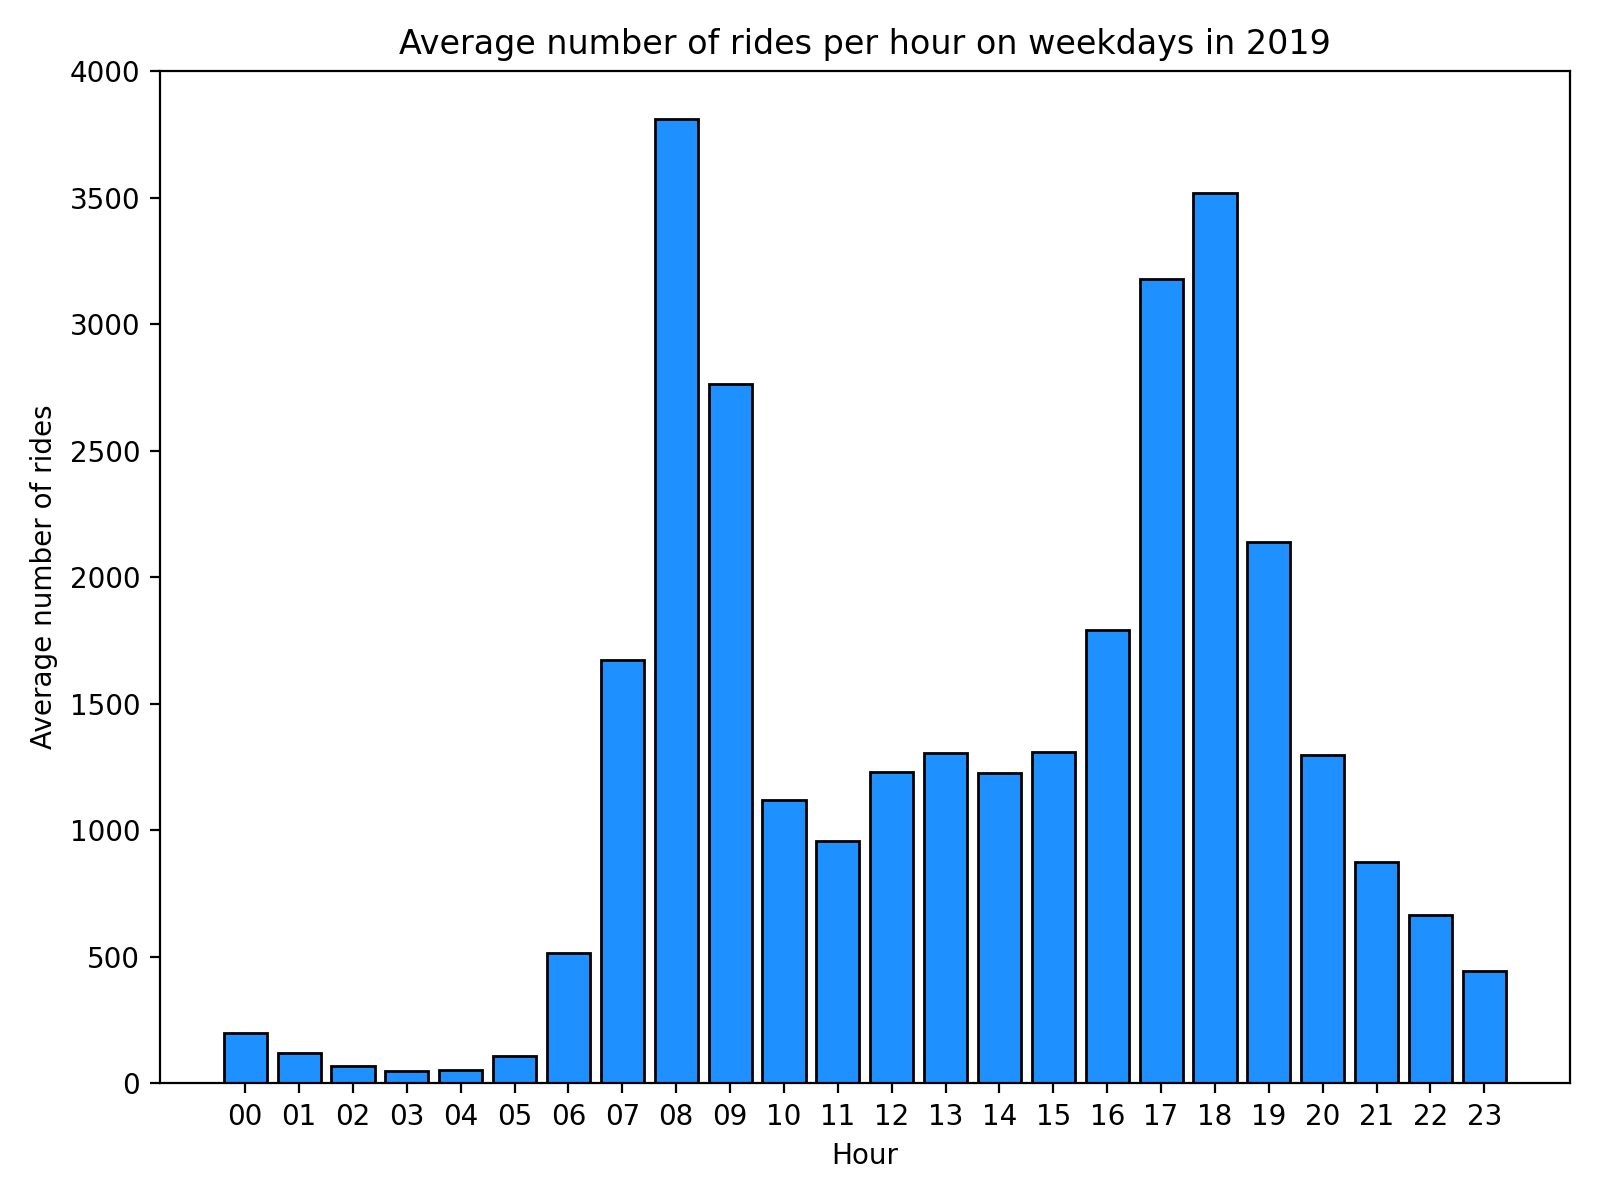
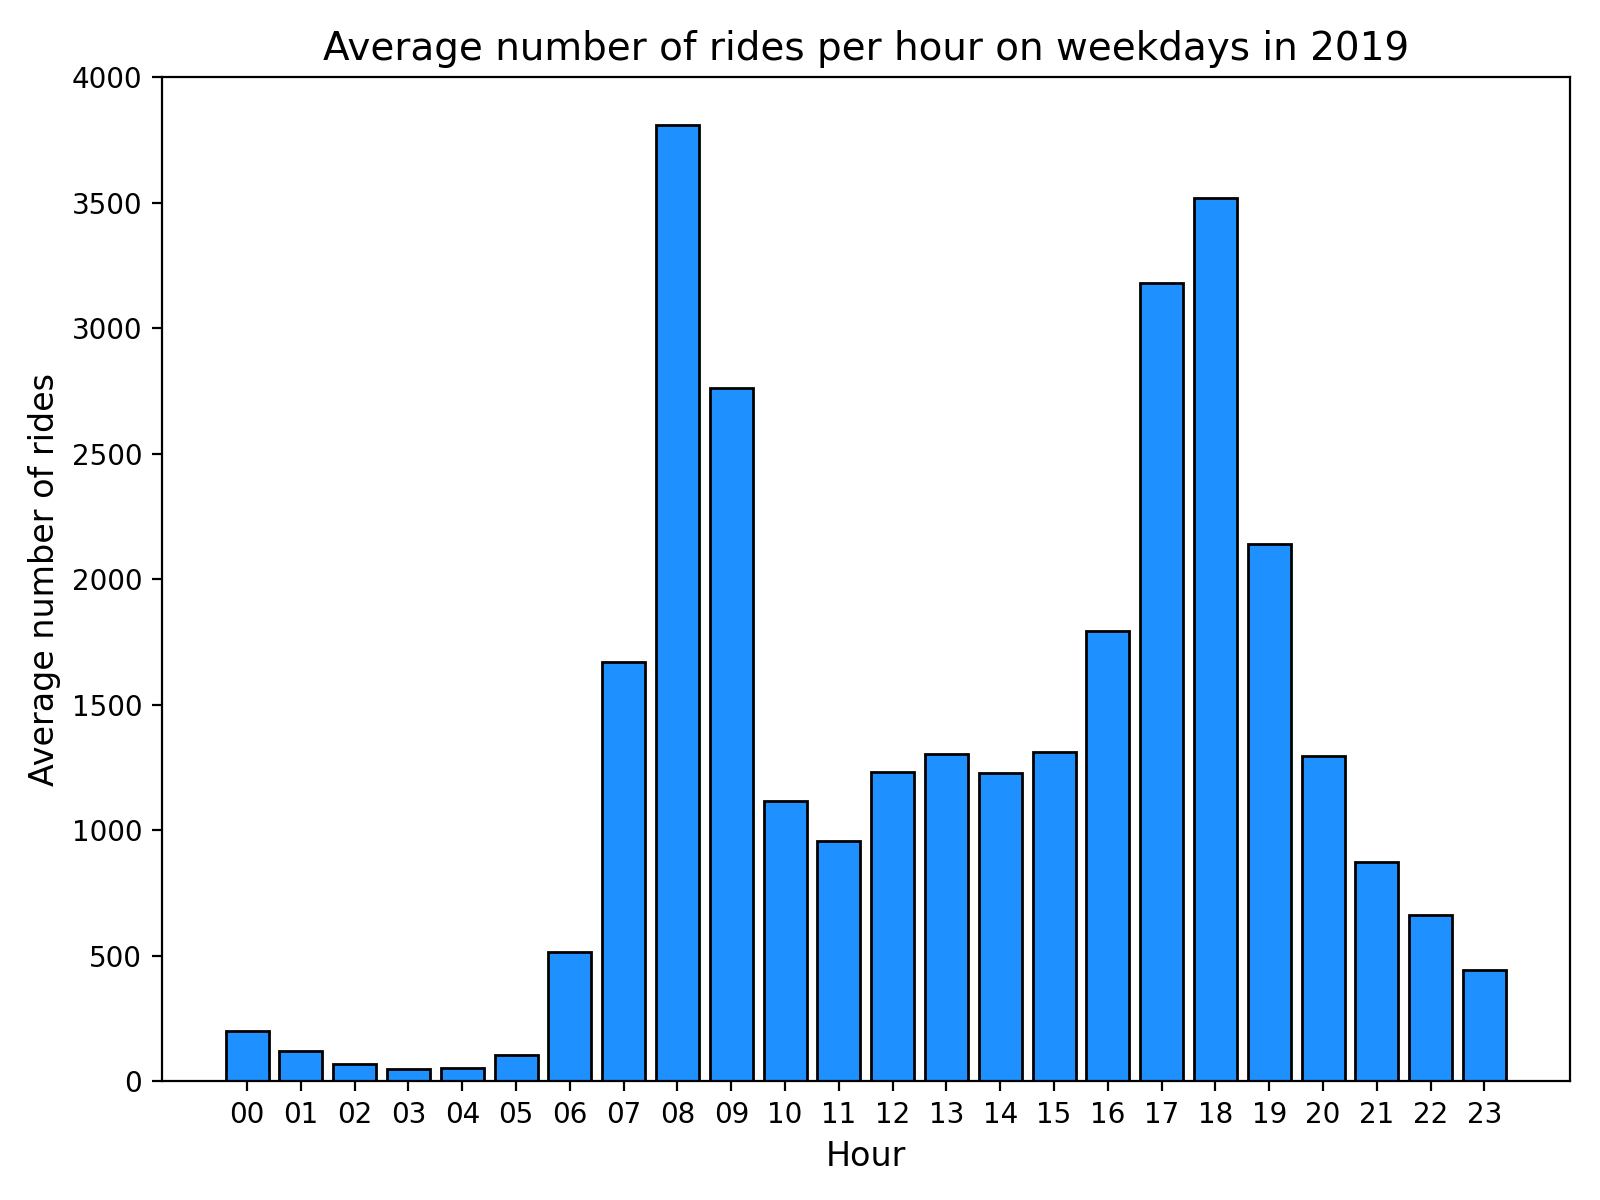
Increased font size for x and y labels and title

diff --git a/exploratory_data_analysis/avg_weekdays.py b/exploratory_data_analysis/avg_weekdays.py
@@ -31,9 +31,9 @@ results_df = pd.DataFrame(query_results, columns=[
 fig, ax = plt.subplots(figsize=(8, 6))
 ax.bar(results_df['Hour'], results_df['Avg_Rides'],
        color='dodgerblue', edgecolor='k')
-ax.set_xlabel('Hour')
-ax.set_ylabel('Average number of rides')
-ax.set_title('Average number of rides per hour on weekdays in 2019')
+ax.set_xlabel('Hour', fontsize=12)
+ax.set_ylabel('Average number of rides', fontsize=12)
+ax.set_title('Average number of rides per hour on weekdays in 2019', fontsize=14)
 # ax.grid(linestyle=':')
 fig.tight_layout()
 plt.show()
